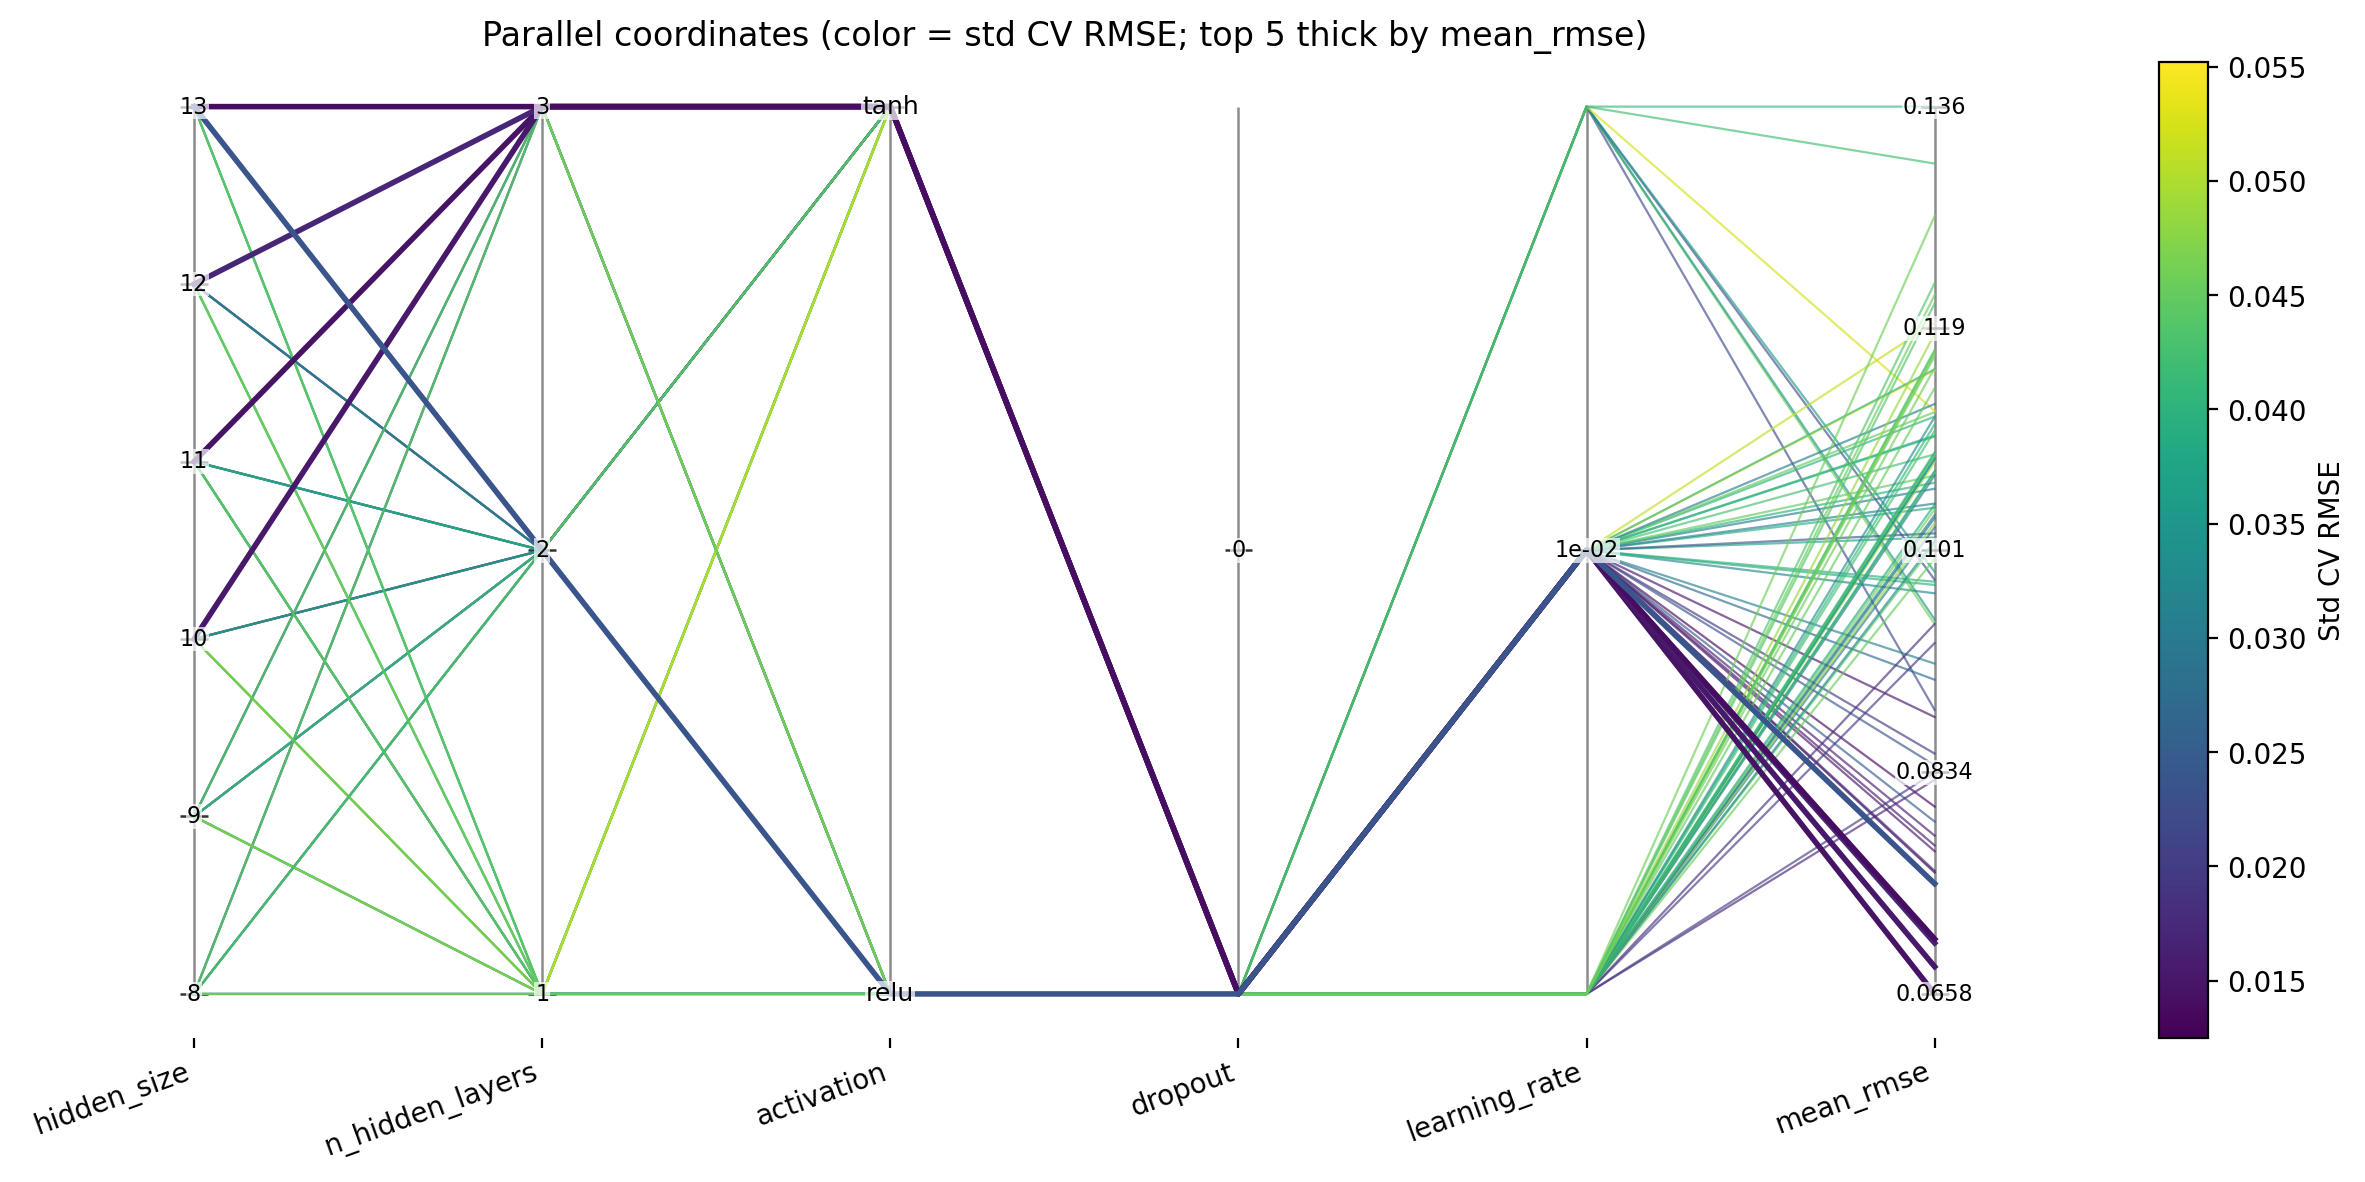
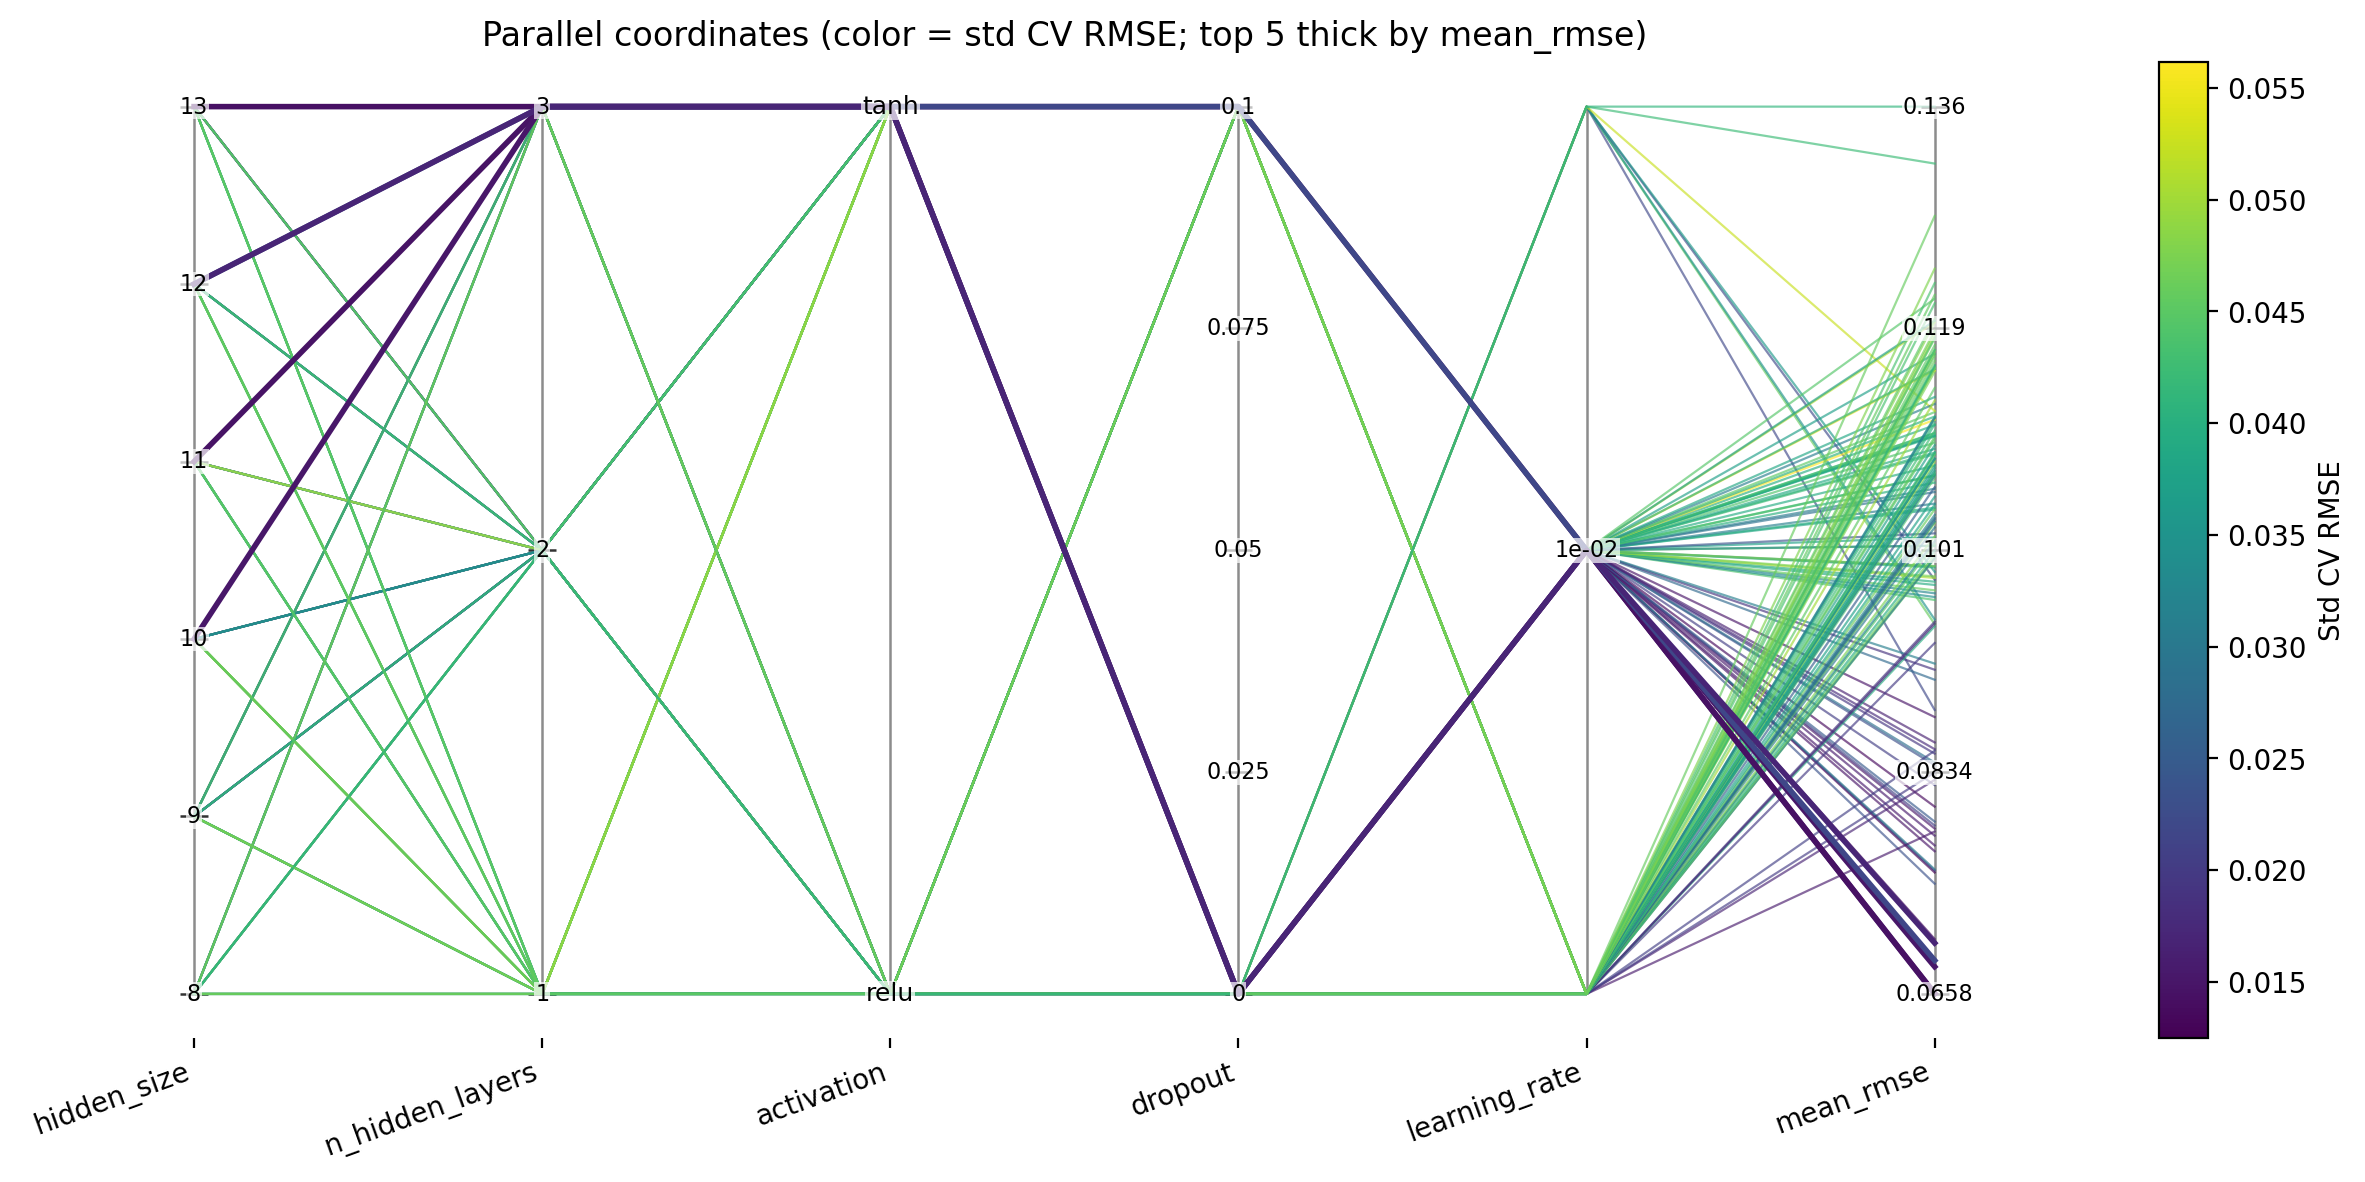
ADD: Additional plots and updated cross val results for Souza dataset model V1

diff --git a/Dissolution_Modeling/plot_model_param_sweep.py b/Dissolution_Modeling/plot_model_param_sweep.py
@@ -1,0 +1,116 @@
+import numpy as np
+import matplotlib.pyplot as plt
+from scipy.integrate import solve_ivp
+
+# -----------------------------
+# Matplotlib LaTeX (usetex)
+# -----------------------------
+plt.rcParams.update({
+    "text.usetex": True,
+    "font.family": "serif",
+    "font.size": 10,
+    "axes.labelsize": 10,
+    "axes.titlesize": 11,
+    "legend.fontsize": 7,
+})
+
+# -----------------------------
+# Model
+# df/dt = λ * (c* - f) * (t^n / (τ + t^n)) * (1 - f)^β
+# Assumptions: M_tot/V = 1, c* fixed
+# -----------------------------
+
+def make_rhs(lam, tau, n, beta, cstar):
+    lam = float(lam); tau = float(tau); n = float(n); beta = float(beta); cstar = float(cstar)
+
+    def rhs(t, y):
+        f = float(y[0])
+        # enforce physical bounds in the dynamics
+        if f <= 0.0:
+            f = 0.0
+        if f >= 1.0:
+            return [0.0]  # once fully released, stay there
+
+        if t <= 0.0:
+            g = 0.0
+        else:
+            t_pow = t**n
+            g = t_pow / (tau + t_pow + 1e-15)
+
+        one_minus_f = max(1.0 - f, 0.0)  # safe
+
+        return [lam * (cstar - f) * g * (one_minus_f ** beta)]
+    return rhs
+
+def solve_curve(params, t_end=250.0, n_eval=500, cstar=5.0):
+    lam, tau, n, beta = params
+    rhs = make_rhs(lam, tau, n, beta, cstar)
+    t_eval = np.linspace(0.0, t_end, n_eval)
+
+    sol = solve_ivp(
+        rhs,
+        t_span=(0.0, t_end),
+        y0=[0.0],
+        t_eval=t_eval,
+        method="BDF",
+        rtol=1e-7,
+        atol=1e-9,
+        max_step=1.0,
+    )
+    return sol.t, sol.y[0]
+
+# -----------------------------
+# Plot settings
+# -----------------------------
+CSTAR = 5.0
+T_END = 180.0  # minutes -> 3 hours
+
+zero_order_params = [
+    (0.002, 1.0, 1.0, 0.02),
+    (0.0016, 1.0, 1.0, 0.02),
+    (0.0011, 1.0, 1.0, 0.02),
+    (0.0007, 1.0, 1.0, 0.02),
+]
+
+first_order_params = [
+    (0.012, 1.0, 1.0, 1.0),
+    (0.01, 1.0, 1.0, 1.0),
+    (0.007, 1.0, 1.0, 1.0),
+    (0.004, 1.0, 1.0, 1.0),
+]
+
+sigmoid_params = [
+    (0.030, 1.3e7, 4.0, 1.0),
+    (0.020, 6.5e7, 4.0, 1.0),
+    (0.020, 2.07e8, 4.0, 1.0),
+    (0.010, 2.08e8, 4.0, 1.0),
+]
+
+# -----------------------------
+# Make figure
+# -----------------------------
+fig, axes = plt.subplots(3, 1, figsize=(6, 9), sharex=True)
+
+families = [
+    (r"\textbf{Zero-order}", zero_order_params),
+    (r"\textbf{First-order}", first_order_params),
+    (r"\textbf{Sigmoid}", sigmoid_params),
+]
+
+for ax, (title, plist) in zip(axes, families):
+    for (lam, tau, n, beta) in plist:
+        t, f = solve_curve((lam, tau, n, beta), t_end=T_END, cstar=CSTAR)
+        lbl = rf"$\lambda={lam:g},\ \tau={tau:g},\ n={n:g},\ \beta={beta:g}$"
+        ax.plot(t, f, linewidth=1.6, label=lbl)
+
+    ax.set_title(title)
+    ax.set_xlabel(r"$t\ \mathrm{(min)}$")
+    ax.set_xlim(0, T_END)
+    ax.set_ylim(0, 1.1)
+    ax.legend(frameon=True, ncol=1)
+
+axes[0].set_ylabel(r"$f\ \mathrm{(release\ fraction)}$")
+
+fig.tight_layout()
+plt.savefig("model_rep_plot.png",dpi=300)
+plt.show()
